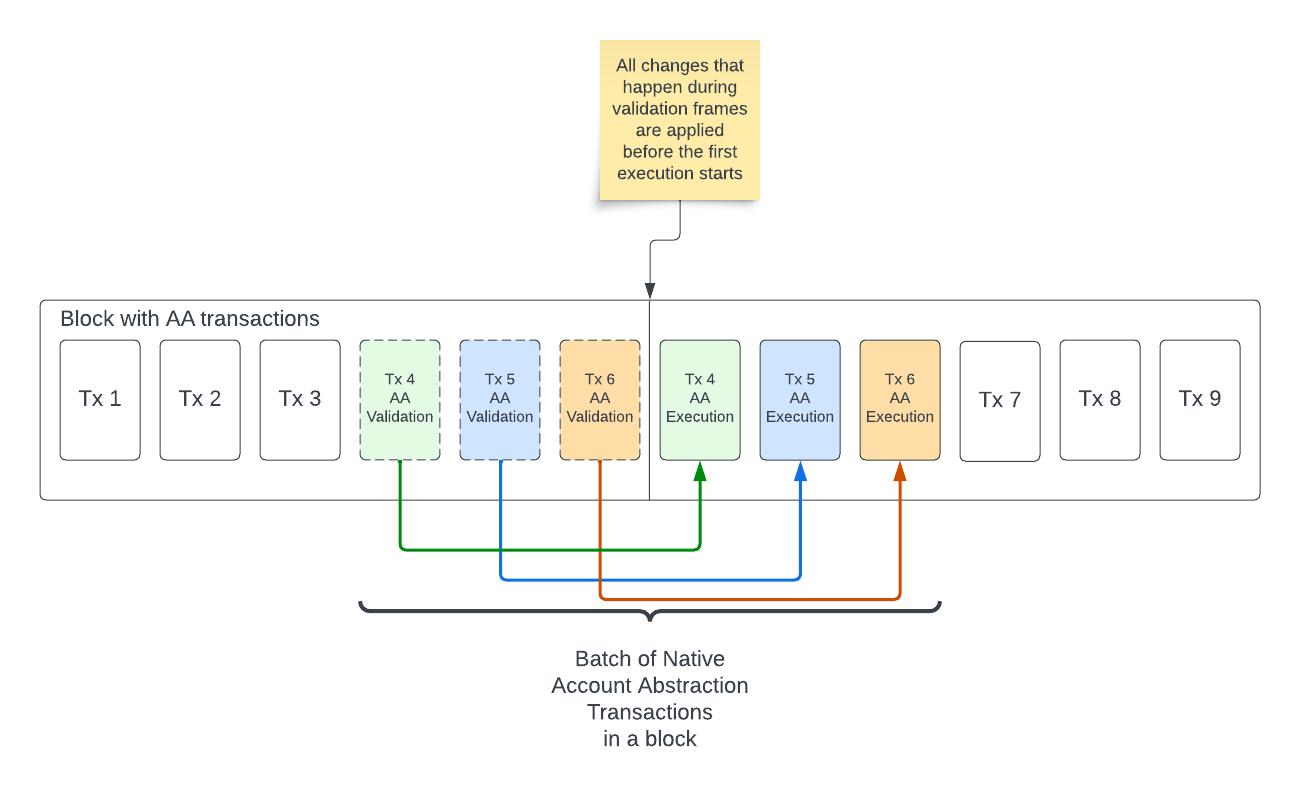
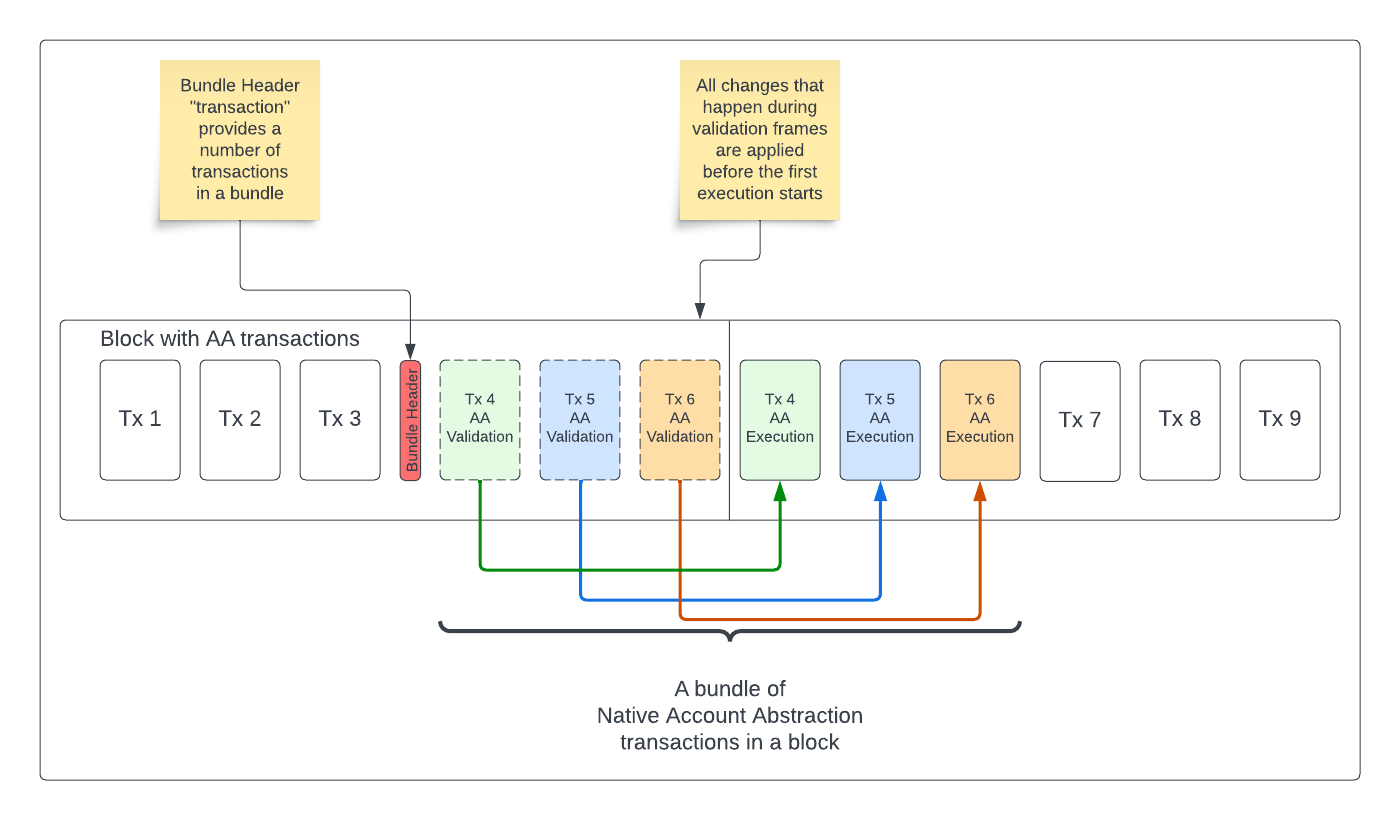
Bundled RIP-7560 Compatible Account Abstraction Transaction Type (#22)
* Initial commit for extracted bundle of AA transactions subtype

* Specify non-atomic transactions as subtype; bring in unused gas penalty

* Update RIPS/rip-9997.md

* Update RIPS/rip-9997.md

* Add "single sequencer" opt-out suggestion

* Upd

* Specify the "opt in" conditions explicitly

* Move the rationale for the "unused gas penalty" to the "Rationale" section

* Require that 'transactionCount' is always larger than '1'

* Update: share transaction context across frames, ban SELFDESTRUCT, rephrase

* Remove mentions of "subtype" and use different tx type id instead

* Rename to RIP-7711

* Add "discussions-to" link

---------

diff --git a/RIPS/rip-7711.md b/RIPS/rip-7711.md
@@ -1,0 +1,214 @@
+---
+rip: 7711
+title: An RIP-7560 transactions bundle transaction type
+description: An RIP-7560 compatible transaction type that allows specifying a set of AA transactions that can be atomically validated together
+author: Vitalik Buterin (@vbuterin), Yoav Weiss (@yoavw), Alex Forshtat (@forshtat), Dror Tirosh (@drortirosh), Shahaf Nacson (@shahafn)
+discussions-to: https://ethereum-magicians.org/t/rip-7711-an-rip-7560-compatible-transactions-bundle-transaction-type/20093
+status: Draft
+type: Standards Track
+category: Core
+created: 2023-09-01
+requires: 7560
+---
+
+
+## Abstract
+
+This proposal provides block builders with a mechanism to isolate validation from execution for
+a set of RIP-7560 transactions.
+By doing so we simplify the task of filling a block gas space with RIP-7560 transactions and prevent potential
+denial of service attacks against block builders.
+
+On "single sequencer" Layer 2 chains that do not have a "transaction mempool" in a traditional sense,
+this proposal provides no benefit compared to the original RIP-7560.
+It is required for DoS mitigation on every chain that does rely on a public mempool for block building, however.
+
+## Motivation
+
+The `AA_TX_TYPE` transaction type that is defined in RIP-7560 completely separates transaction validity
+on a protocol level from ECDSA signatures or any other protocol-defined rules, instead allowing account's EVM code
+to determine a validity of a transaction.
+
+This validation EVM code, however, may be affected by any observable state change within a block.
+A block builder trying to include a set of `AA_TX_TYPE` transactions may face a challenge of finding a combination
+that fits together without invalidating each other.
+
+The block builder has to execute the entire body of one transaction before picking the next one.
+Additionally, it is not feasible to apply any limitations on the transaction execution, while it is expected that
+the validation code will be constrained by the block builder with a ruleset like ERC-7562.
+
+This document proposes a mechanism for block builder to specify a set of `AA_TX_TYPE` transactions that are guaranteed
+to fit together due to a fact that all of their validation frames are executed consecutively first,
+before their respective execution frames.
+
+## Specification
+
+### Bundle header RIP-7560 transaction type
+
+```
+BUNDLE_HEADER_TYPE = x
+```
+
+Instead, we propose to introduce an explicit "counter" transaction type.
+
+The payload should be interpreted as:
+
+```
+0x04 || 0x01 || rlp([chainId, transactionCount])
+```
+
+Header transactions have a unique hash calculated as follows:
+
+```
+keccak256(AA_TX_TYPE || 0x01 || rlp(chainId, transactionCount, blockNumber, txIndex))
+```
+
+The `transactionCount` is required to be strictly larger than `1`.
+
+The `blockNumber` and `txIndex` parameters are added to the hash to achieve unique header transaction IDs.
+
+The header transactions are only used to help execution clients determine how many of the `AA_TX_TYPE` transactions
+belong to each individual bundle.
+
+The block is not valid if a header transaction is located anywhere except before a set of `AA_TX_TYPE` transactions.
+
+Header transactions do not affect blockchain state and do not cost any gas.
+
+### Non-atomic validation and execution transaction type
+
+```
+BUNDLE_TRANSACTION_TYPE = x
+```
+
+These transactions are completely identical to regular RIP-7560 transactions with the exceptions of being
+composable into bundles.
+
+It is important for the wallets to explicitly opt into this feature by accepting the `BUNDLE_TRANSACTION_TYPE`,
+as some Smart Contract Accounts
+may be created in a way that relies on atomicity between validation and execution phases.
+
+### All validation state changes apply before all execution ones
+
+Filling a block with AA transactions must not be a challenge for the block builder.
+However, if each transaction during its execution can alter any state that affects the validity of another transaction
+in the mempool, the block builder will be forced to revalidate all transactions in the mempool after each inclusion.
+
+We mitigate that by applying all changes in all the validation frames of a sequence of AA transactions first
+and all execution frames apply immediately after that.
+
+In theory, the validation frames can also invalidate each other, but we define ways to prevent that by applying
+certain rules for the mempool transactions in ERC-7562.
+
+A builder that chooses not to enforce the rules from ERC-7562 **must** take care to re-validate each transaction
+against the mid-block state at the position where it is being included into a block.
+Otherwise, the resulting block is likely to end up being invalid.
+
+### Block structure diagram
+
+Here is a visual representation of a block that contains multiple Account Abstraction Transactions.
+The validation parts of AA transactions are executed as separate transactions,
+but are not represented as separate transactions in the block data.
+
+![](../assets/rip-7560/block_overview.png)
+*The structure of a block containing multiple Native Account Abstraction Transactions*
+
+### Validation phase observability
+
+The validation frames of the AA_TX_TYPE transaction are treated as separate individual transactions by the RPC clients.
+They are assigned their own sequential `transactionIndex`, and their `transactionHash` is defined as
+(`AA_TX_TYPE transaction hash + 1`).
+
+All block-related RPC methods, like `eth_getBlockByHash` and `eth_getBlockByNumber`, must include these
+validation frames as part of the `transactions` field and include validation in the block transaction count.
+
+All transaction-related RPC methods, like `eth_getTransactionByHash` and `eth_getTransactionReceipt`, must
+accept the validation frame transaction hash as input and return the details calculated as if the validation was a
+separate transaction.
+
+### Transaction execution context
+
+Note that some behaviours in the EVM depend on the transaction context. These behaviours are:
+1. Costs of the `SSTORE` opcode per [EIP-2200](../eip-2200)
+2. Costs of accessing cold addresses and slots per [EIP-2929](../eip-2929)
+3. Values available within the transient storage per [EIP-1163](../eip-1163)
+4. Maximum amount of gas refund assigned after the execution per [EIP-3529](../eip-3529)
+
+These features are not affected by the separation of the transaction into multiple frames.
+Meaning, for example, that a value set with TSTORE in one frame will remain available in the next one,
+and different transactions will have independent values held in TSTORE slots.
+
+### Behaviour of the `SELFDESTRUCT` opcode
+The only exception to the rule defined in the [Transaction execution context](#transaction-execution-context)
+section is the availability of the `SELFDESTRUCT` opcode as defined by [EIP-6780](../eip-6780).
+Using `SELFDESTRUCT` is only allowed within the same **frame** the contract was created in.
+
+### Unused gas penalty charge
+
+```
+UNUSED_GAS_PENALTY = 10
+```
+
+A penalty of `UNUSED_GAS_PENALTY` percent of the entire unused gas limit is charged from the
+transaction `sender` or `paymaster`.
+
+The total gas limit is calculated as `totalLimit = validationGasLimit + paymasterGasLimit + callGasLimit`.\
+The `totalGasUsed` is calculated as a sum of all gas used during the transaction.\
+The unused gas is calculated as `unusedGas = totalLimit - totalGasUsed`.
+
+## Rationale
+
+### Unused gas penalty charge
+
+Transactions of type `BUNDLE_TRANSACTION_TYPE` that reserve a lot of gas for themselves using `validationGasLimit`,
+`paymasterGasLimit` and `callGasLimit` fields but do not use the reserved gas present a challenge for
+block builders. This is especially demanding in case a gas used by a transaction can be significantly different
+based on its position within a block, as such transactions may cause the block builder to iterate its algorithm
+many times until a fully utilized block is discovered.
+
+The effects of allowing transactions to specify unrestricted gas limits is shown on this diagram:
+![](../assets/rip-7560/unused_gas_attack_overview.png)
+
+### Using a header transaction to carry metadata instead of adding a field to the block payload
+
+While in this particular case there is no execution frame that needs to happen for
+a `BUNDLE_HEADER_TYPE` transaction, in other similar scenarios it is possible we
+will require some execution for a header transaction.
+
+For example, in the upcoming Signature Aggregation RIP, the header transaction contains
+the execution of the aggregated signature verification code.
+
+For consistency with potential future extensions to the RIP-7560 it seems reasonable to
+introduce a transaction type that has zero execution frames.
+In addition, it couldn't be efficiently represented as one field because a block may contain any number of such bundles.
+
+### Breaking up a transaction flow into non-atomic pieces
+
+While changing the transaction flow is a departure from the norm for Ethereum transactions,
+in practice this change is both very useful and not very complex.
+
+The validation frames can be easily constrained with both gas limits and opcode bans.
+The entire validation section of a correctly built bundle can therefore be protected from containing
+mutually exclusive transactions.
+The task of building a block becomes efficient and can be parallelized with no risk of DoS attacks.
+
+For the EVM implementation the validation frames behave almost identical to a standalone transaction,
+so there are no expected difficulties with implementing this proposal.
+
+## Backwards Compatibility
+
+
+## Security Considerations
+
+### Attacks on validation-execution separation
+
+Accounts in RIP-7560 are instructed not to expect the validation and execution to be atomic.
+However, wallets may be implemented with an incorrect assumption that nothing can happen
+between validation and execution phases, which is wrong.
+
+The state that exists at the end of the validation frame may be observed or modified by unrelated contracts before
+the execution frame begins.
+`Sender` contracts must take great care in making sure their code does not make any false assumptions.
+
+## Copyright
+
+Copyright and related rights waived via [CC0](../LICENSE.md).
